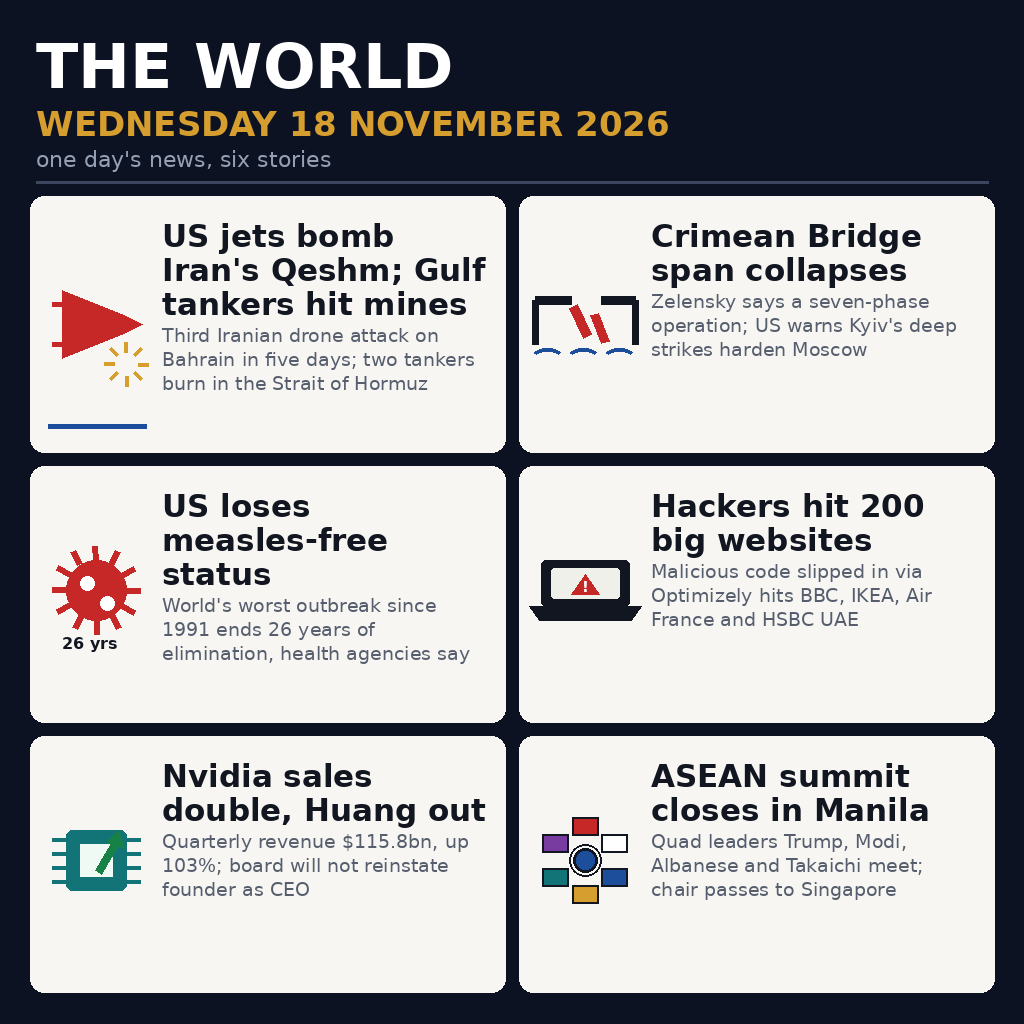
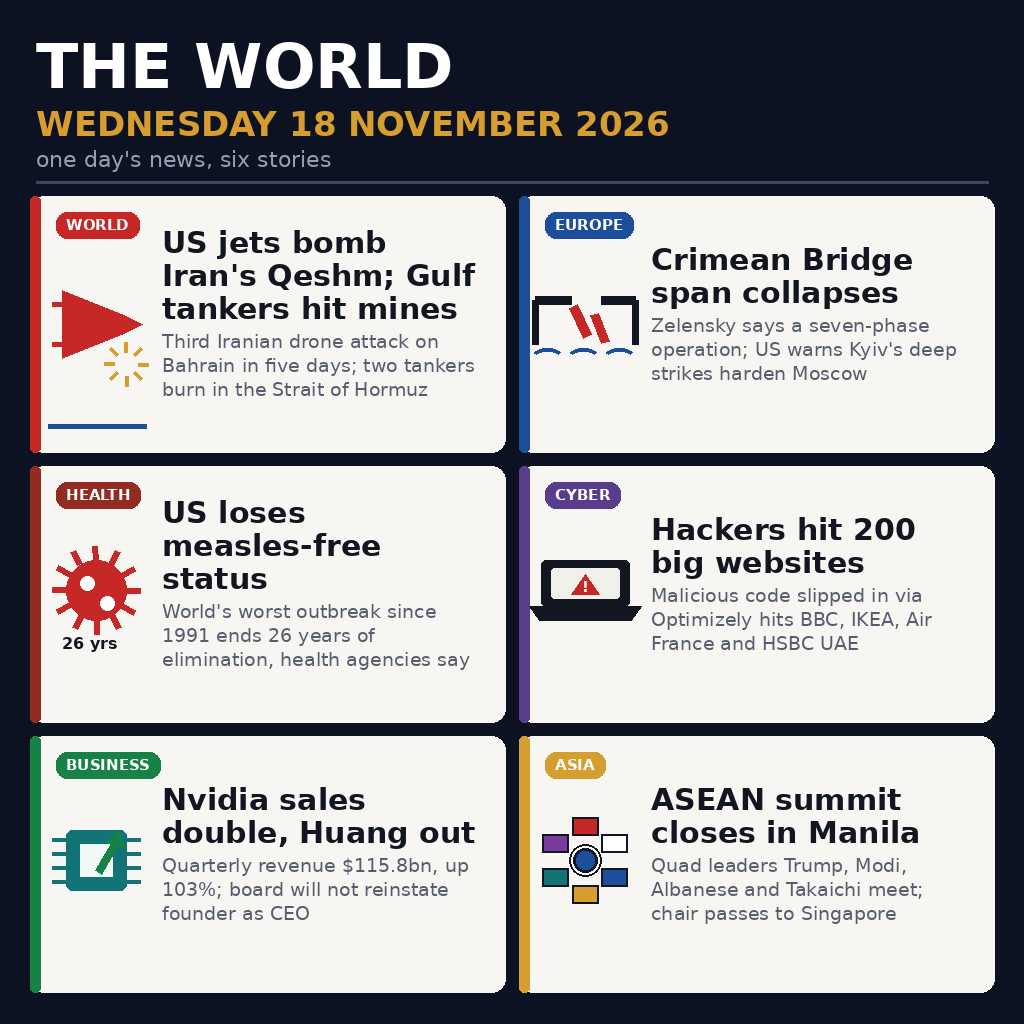
Improve front page: category chips, accent stripes, vertical text centering

Changed region(s): [[0.0312, 0.1875, 0.4688, 0.9688], [0.5, 0.1875, 0.9375, 0.9688], [0.625, 0.75, 0.9062, 0.9062]]

diff --git a/gen_image.py b/gen_image.py
@@ -65,24 +65,38 @@ def tile(i):
     return x, y
 
 
+CATS = ["WORLD", "EUROPE", "HEALTH", "CYBER", "BUSINESS", "ASIA"]
+CATCOLORS = [ACCENT, BLUE, (146, 43, 33), (90, 60, 140), (22, 130, 70), GOLD]
+
+
 def card(i):
     x, y = tile(i)
     d.rounded_rectangle((x, y, x + cw, y + ch), radius=14, fill=CARD)
+    cc = CATCOLORS[i]
+    d.rounded_rectangle((x, y, x + 10, y + ch), radius=5, fill=cc)
+    # category chip
+    chf = font(15)
+    tw = d.textlength(CATS[i], font=chf)
+    d.rounded_rectangle((x + 26, y + 16, x + 26 + tw + 20, y + 42), radius=11, fill=cc)
+    d.text((x + 36, y + 20), CATS[i], font=chf, fill=(255, 255, 255))
     return x, y
 
 
 def text_block(x, y, headline, detail, hcolor=INK):
     tx = x + 132
     maxw = cw - 132 - 18
-    fh = font(31)
-    lines = wrap(d, headline, fh, maxw)
-    cy = y + 22
-    for ln in lines[:3]:
-        d.text((tx, cy), ln, font=fh, fill=hcolor)
-        cy += 34
+    fh = font(30)
+    hl = wrap(d, headline, fh, maxw)[:3]
     fd = font(19, False)
-    for ln in wrap(d, detail, fd, maxw)[:5]:
-        d.text((tx, cy + 4), ln, font=fd, fill=MUTED)
+    dl = wrap(d, detail, fd, maxw)[:5]
+    total = len(hl) * 33 + 6 + len(dl) * 24
+    cy = y + 20 + max(0, (ch - 60 - total) // 2)
+    for ln in hl:
+        d.text((tx, cy), ln, font=fh, fill=hcolor)
+        cy += 33
+    cy += 6
+    for ln in dl:
+        d.text((tx, cy), ln, font=fd, fill=MUTED)
         cy += 24
 
 
